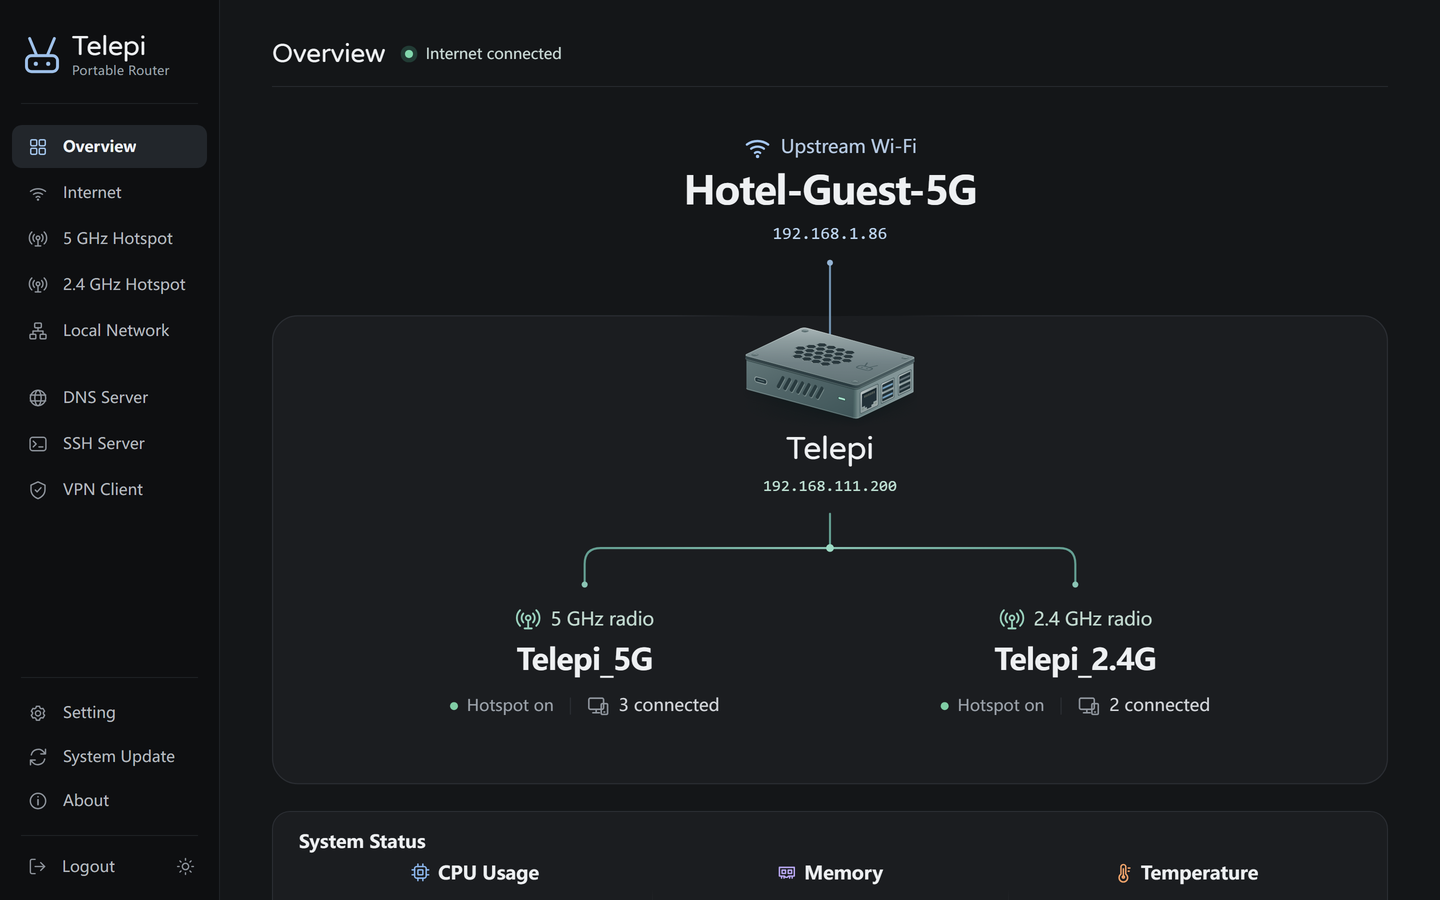
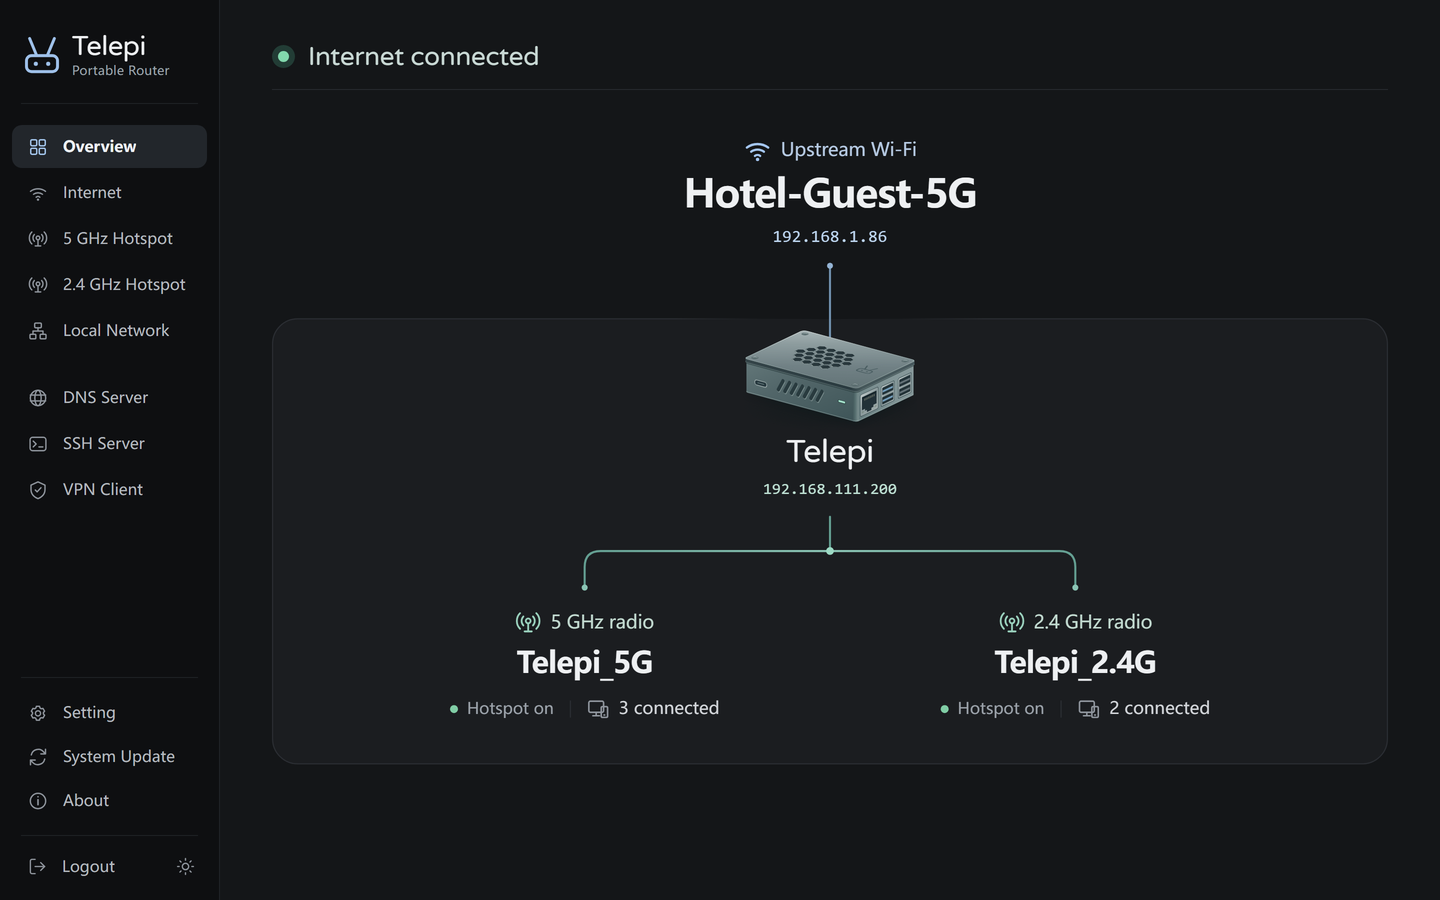
Refresh web UI screenshots for the new overview page; 2.0.1 image rebuilt 2026-11-25

diff --git a/CHANGELOG.md b/CHANGELOG.md
@@ -2,7 +2,7 @@
 
 All notable changes to Telepi OS are documented here.
 
-## [2.0.1] — 2026-11-24
+## [2.0.1] — 2026-11-25
 
 ### Fixed
 
